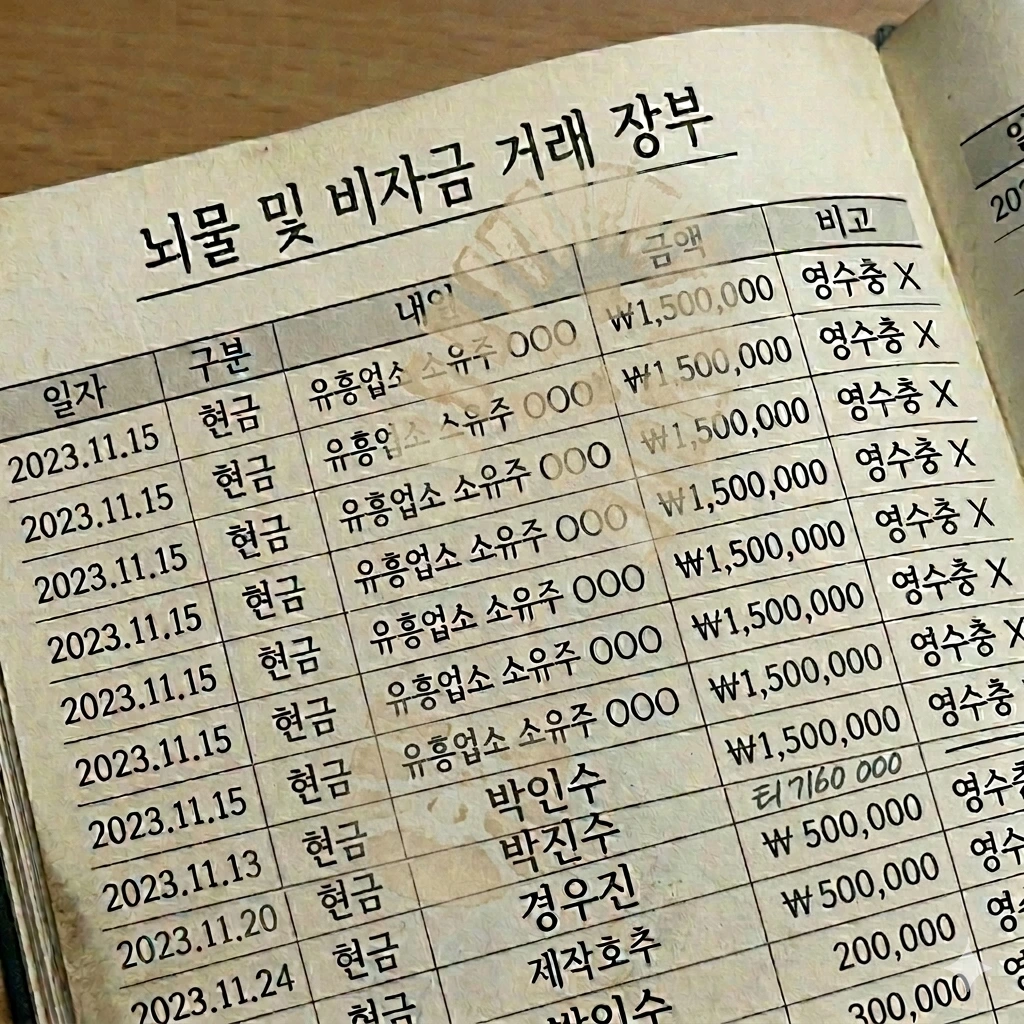
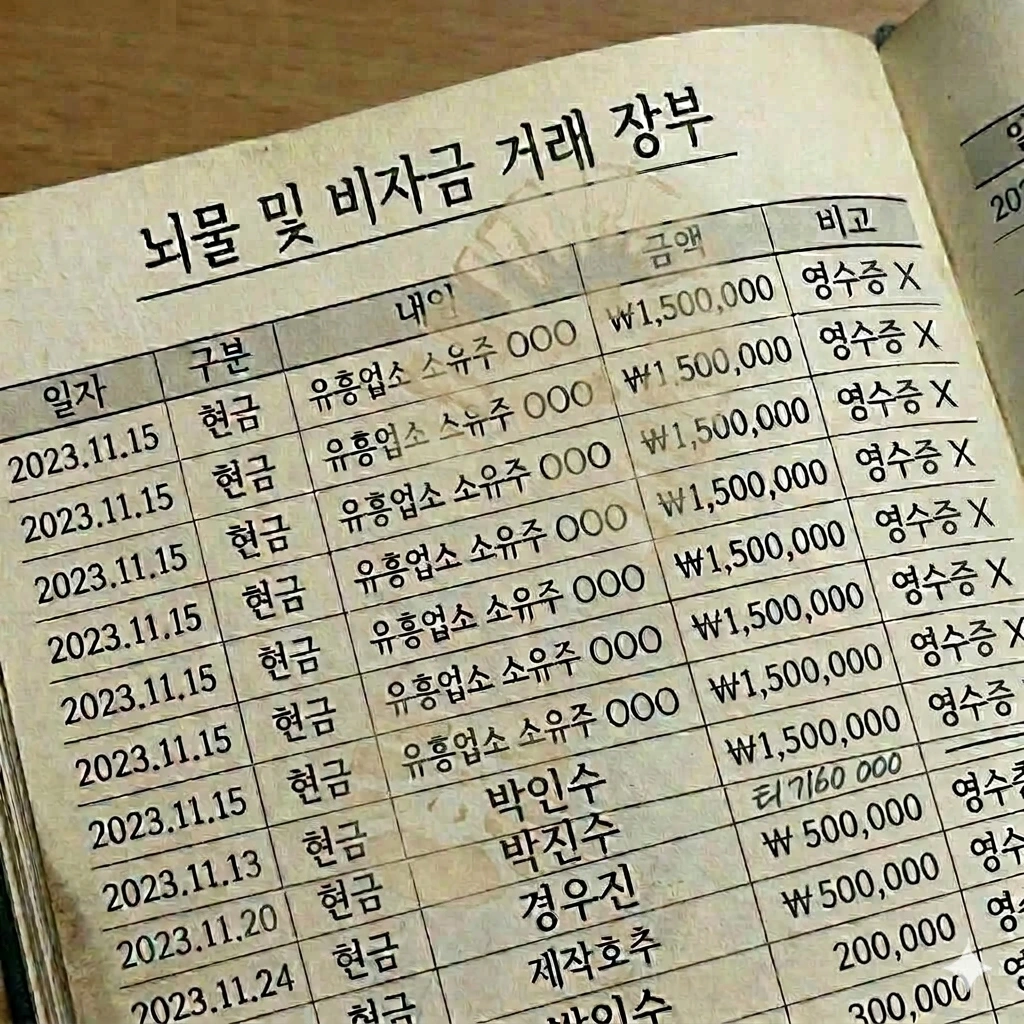
엔딩 배경 이미지 png→webp 변환 및 장부족적 이미지 교체
- 엔딩1~5.png를 webp로 변환하여 추가
- game.html 내 참조를 .png → .webp로 변경
- 장부족적.webp 이미지 교체

diff --git a/game.html b/game.html
@@ -11946,11 +11946,11 @@ function showEndingCredits(ending, gradeLabel) {
   const es = document.getElementById('ending-screen');
   const credits = [
     {bg:'졸업.webp', title:'Opening', body:'Midnight Bonus Stage'},
-    {bg:'배경/엔딩2.png', title:'Main BGM', body:'Midnight Bonus Stage(inst.)\nNight Urban Drive\n일과후\n로펌의 오후\nAfter Lawschool'},
-    {bg:'배경/엔딩1.png', title:'Love Theme', body:'사랑이 다가온 날\n우리 계속'},
-    {bg:'배경/엔딩3.png', title:'Ending', body:'Gaming Love'},
-    {bg:'배경/엔딩4.png', title:'기획&제작', body:'박대영'},
-    {bg:'배경/엔딩5.png', title:'', body:'벼넥시트 - 변호사 생존기 -'},
+    {bg:'배경/엔딩2.webp', title:'Main BGM', body:'Midnight Bonus Stage(inst.)\nNight Urban Drive\n일과후\n로펌의 오후\nAfter Lawschool'},
+    {bg:'배경/엔딩1.webp', title:'Love Theme', body:'사랑이 다가온 날\n우리 계속'},
+    {bg:'배경/엔딩3.webp', title:'Ending', body:'Gaming Love'},
+    {bg:'배경/엔딩4.webp', title:'기획&제작', body:'박대영'},
+    {bg:'배경/엔딩5.webp', title:'', body:'벼넥시트 - 변호사 생존기 -'},
   ];
 
   // 크레딧용 오버레이 생성

diff --git a/index.html b/index.html
@@ -11946,11 +11946,11 @@ function showEndingCredits(ending, gradeLabel) {
   const es = document.getElementById('ending-screen');
   const credits = [
     {bg:'졸업.webp', title:'Opening', body:'Midnight Bonus Stage'},
-    {bg:'배경/엔딩2.png', title:'Main BGM', body:'Midnight Bonus Stage(inst.)\nNight Urban Drive\n일과후\n로펌의 오후\nAfter Lawschool'},
-    {bg:'배경/엔딩1.png', title:'Love Theme', body:'사랑이 다가온 날\n우리 계속'},
-    {bg:'배경/엔딩3.png', title:'Ending', body:'Gaming Love'},
-    {bg:'배경/엔딩4.png', title:'기획&제작', body:'박대영'},
-    {bg:'배경/엔딩5.png', title:'', body:'벼넥시트 - 변호사 생존기 -'},
+    {bg:'배경/엔딩2.webp', title:'Main BGM', body:'Midnight Bonus Stage(inst.)\nNight Urban Drive\n일과후\n로펌의 오후\nAfter Lawschool'},
+    {bg:'배경/엔딩1.webp', title:'Love Theme', body:'사랑이 다가온 날\n우리 계속'},
+    {bg:'배경/엔딩3.webp', title:'Ending', body:'Gaming Love'},
+    {bg:'배경/엔딩4.webp', title:'기획&제작', body:'박대영'},
+    {bg:'배경/엔딩5.webp', title:'', body:'벼넥시트 - 변호사 생존기 -'},
   ];
 
   // 크레딧용 오버레이 생성
